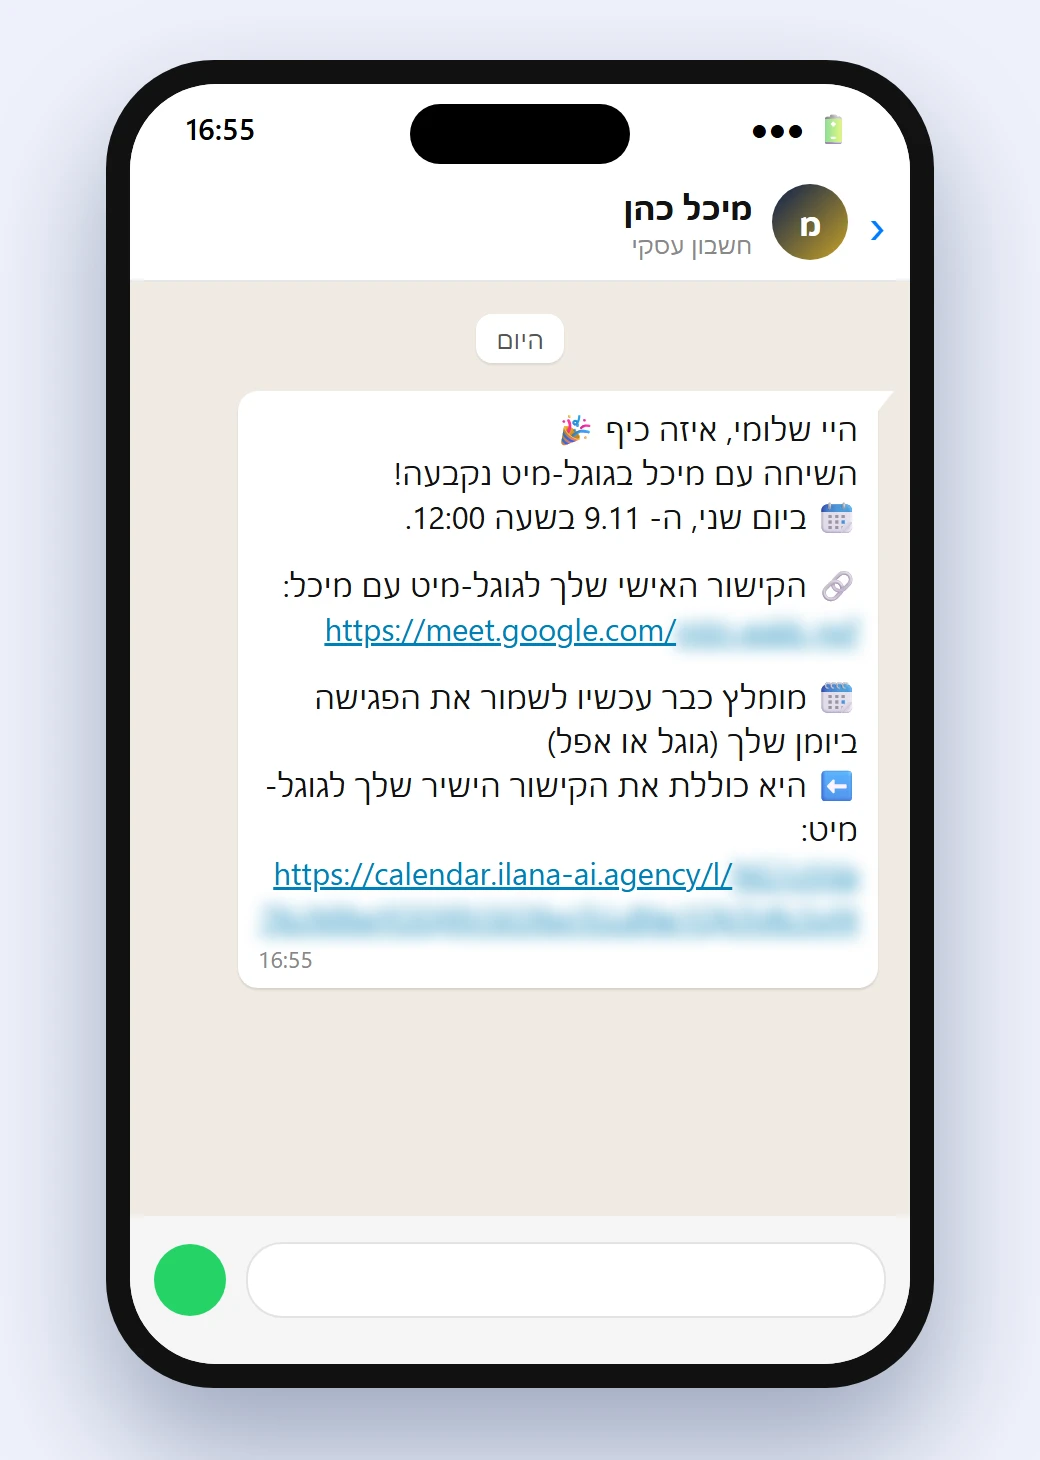
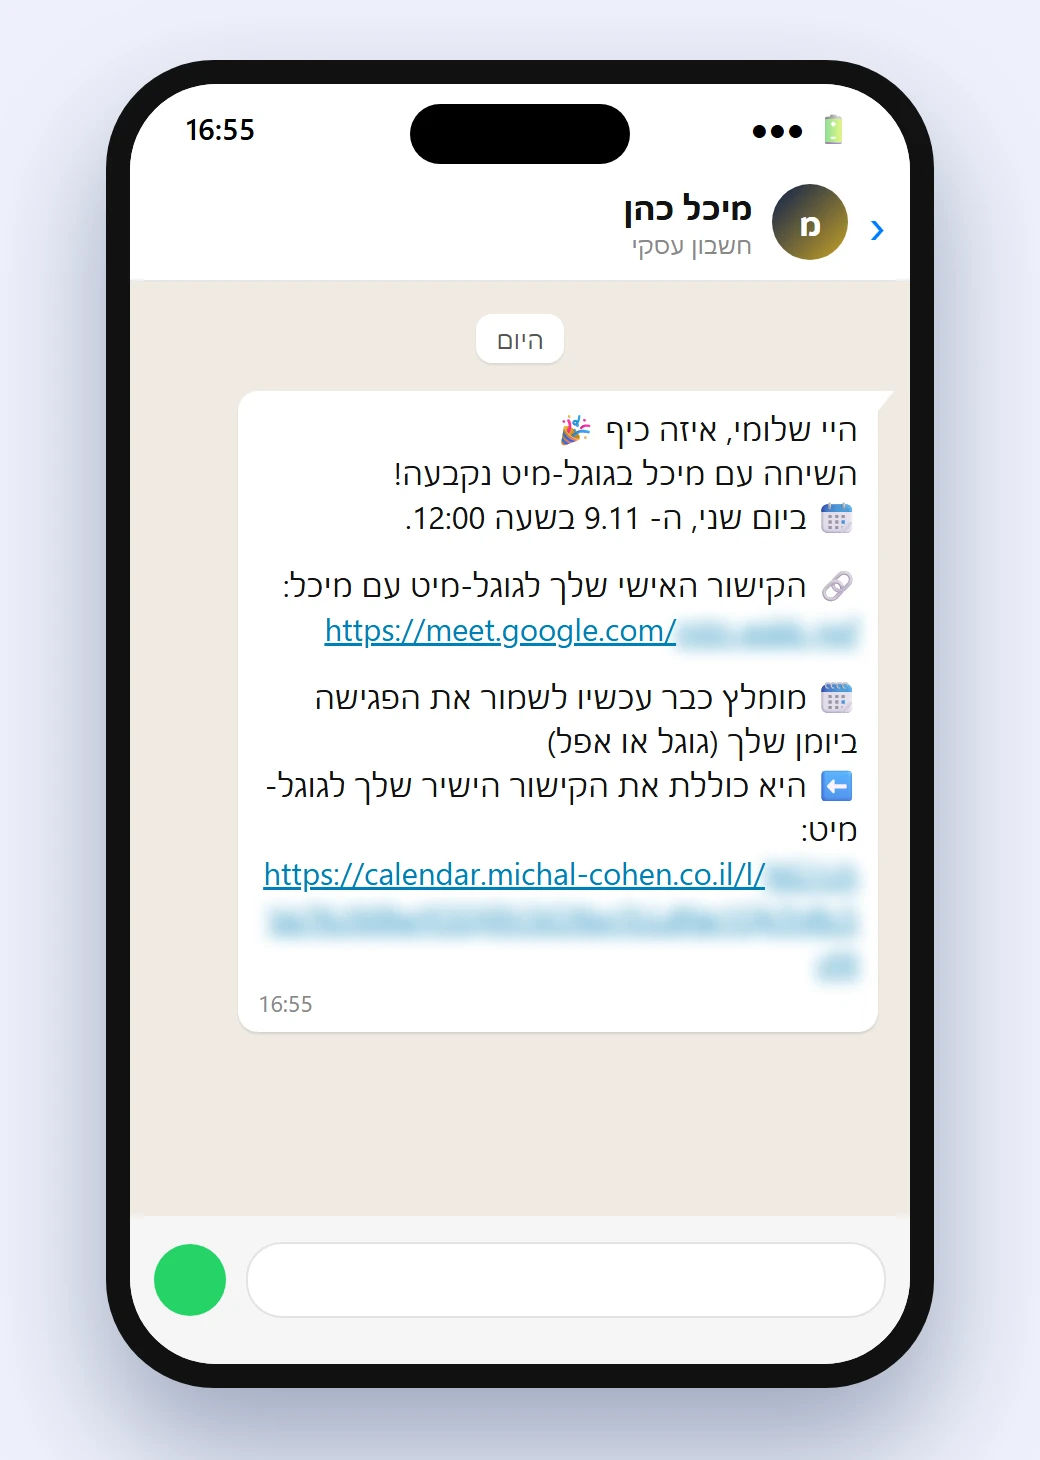
feat(crm): כותרת לאישור בוואטסאפ, תמונה קטנה יותר וכתובת יומן של מיכל

Changed region(s): [[0.2154, 0.6473, 0.8615, 0.7089], [0.2462, 0.5856, 0.7385, 0.6164]]

diff --git a/crm/index.html b/crm/index.html
@@ -17,7 +17,7 @@
   <link rel="preconnect" href="https://fonts.googleapis.com" />
   <link rel="preconnect" href="https://fonts.gstatic.com" crossorigin />
   <link href="https://fonts.googleapis.com/css2?family=Heebo:wght@400;500;700;800&display=swap" rel="stylesheet" />
-  <link rel="stylesheet" href="/assets/site.css?v=20261108l" />
+  <link rel="stylesheet" href="/assets/site.css?v=20261108m" />
 </head>
 <body>
 
@@ -239,7 +239,10 @@
           <figure><figcaption>העמוד של הפגישה, עם הקישור</figcaption><img src="/assets/img/crm/booked-meeting-page.webp" width="1525" height="775" loading="lazy" alt="עמוד הפגישה שנפתח לבד, עם קישור הגוגל-מיט מסומן בעיגול אדום" /></figure>
           <figure><figcaption>הפגישה בכרטיס הלקוח</figcaption><img src="/assets/img/crm/booked-in-card.webp" width="1525" height="775" loading="lazy" alt="כרטיס הלקוח עם הפגישה שנקבעה מסומנת בעיגול אדום" /></figure>
         </div>
-        <figure class="shot shot-narrow"><img src="/assets/img/crm/whatsapp-confirm-michal.webp" width="1040" height="1460" loading="lazy" alt="הודעת האישור שהלקוח מקבל בוואטסאפ, עם הקישור לגוגל-מיט" /></figure>
+        <div class="shot-head">
+          <h4 class="feat-sub">האישור לוואטסאפ ולמייל שמקבל הליד או הלקוח מיד לאחר קביעת הפגישה</h4>
+        </div>
+        <figure class="shot shot-confirm"><img src="/assets/img/crm/whatsapp-confirm-michal.webp?v=2" width="1040" height="1460" loading="lazy" alt="הודעת האישור שהלקוח מקבל בוואטסאפ, עם הקישור לגוגל-מיט" /></figure>
         <div>
           <p><span aria-hidden="true">🔔</span> יום לפני הפגישה הוא מקבל תזכורת.</p>
           <p><span class="strong">ויש גם שדרוג:</span> תהליך של כמה תזכורות, עד שהוא מאשר שהוא מגיע או מבקש לשנות מועד.</p>

diff --git a/dashboard/index.html b/dashboard/index.html
@@ -16,7 +16,7 @@
   <link rel="preconnect" href="https://fonts.googleapis.com" />
   <link rel="preconnect" href="https://fonts.gstatic.com" crossorigin />
   <link href="https://fonts.googleapis.com/css2?family=Heebo:wght@400;500;700;800&display=swap" rel="stylesheet" />
-  <link rel="stylesheet" href="/assets/site.css?v=20261108l" />
+  <link rel="stylesheet" href="/assets/site.css?v=20261108m" />
 
   <style>
     /* ====== ייחודי לעמוד הדשבורד ====== */

diff --git a/ai-agents/index.html b/ai-agents/index.html
@@ -17,7 +17,7 @@
   <link rel="preconnect" href="https://fonts.googleapis.com" />
   <link rel="preconnect" href="https://fonts.gstatic.com" crossorigin />
   <link href="https://fonts.googleapis.com/css2?family=Heebo:wght@400;500;700;800&display=swap" rel="stylesheet" />
-  <link rel="stylesheet" href="/assets/site.css?v=20261108l" />
+  <link rel="stylesheet" href="/assets/site.css?v=20261108m" />
 </head>
 <body>
 

diff --git a/anastasia/index.html b/anastasia/index.html
@@ -17,7 +17,7 @@
   <link rel="preconnect" href="https://fonts.googleapis.com" />
   <link rel="preconnect" href="https://fonts.gstatic.com" crossorigin />
   <link href="https://fonts.googleapis.com/css2?family=Heebo:wght@400;500;700;800&display=swap" rel="stylesheet" />
-  <link rel="stylesheet" href="/assets/site.css?v=20261108l" />
+  <link rel="stylesheet" href="/assets/site.css?v=20261108m" />
 </head>
 <body>
 

diff --git a/contact/index.html b/contact/index.html
@@ -17,7 +17,7 @@
   <link rel="preconnect" href="https://fonts.googleapis.com" />
   <link rel="preconnect" href="https://fonts.gstatic.com" crossorigin />
   <link href="https://fonts.googleapis.com/css2?family=Heebo:wght@400;500;700;800&display=swap" rel="stylesheet" />
-  <link rel="stylesheet" href="/assets/site.css?v=20261108l" />
+  <link rel="stylesheet" href="/assets/site.css?v=20261108m" />
 </head>
 <body>
 

diff --git a/index.html b/index.html
@@ -17,7 +17,7 @@
   <link rel="preconnect" href="https://fonts.googleapis.com" />
   <link rel="preconnect" href="https://fonts.gstatic.com" crossorigin />
   <link href="https://fonts.googleapis.com/css2?family=Heebo:wght@400;500;700;800&display=swap" rel="stylesheet" />
-  <link rel="stylesheet" href="/assets/site.css?v=20261108l" />
+  <link rel="stylesheet" href="/assets/site.css?v=20261108m" />
 </head>
 <body>
 

diff --git a/podcast/1/index.html b/podcast/1/index.html
@@ -16,7 +16,7 @@
   <link rel="preconnect" href="https://fonts.googleapis.com" />
   <link rel="preconnect" href="https://fonts.gstatic.com" crossorigin />
   <link href="https://fonts.googleapis.com/css2?family=Heebo:wght@400;500;700;800&display=swap" rel="stylesheet" />
-  <link rel="stylesheet" href="/assets/site.css?v=20261108l" />
+  <link rel="stylesheet" href="/assets/site.css?v=20261108m" />
 </head>
 <body>
 

diff --git a/podcast/_episode-template/index.html b/podcast/_episode-template/index.html
@@ -16,7 +16,7 @@
   <link rel="preconnect" href="https://fonts.googleapis.com" />
   <link rel="preconnect" href="https://fonts.gstatic.com" crossorigin />
   <link href="https://fonts.googleapis.com/css2?family=Heebo:wght@400;500;700;800&display=swap" rel="stylesheet" />
-  <link rel="stylesheet" href="/assets/site.css?v=20261108l" />
+  <link rel="stylesheet" href="/assets/site.css?v=20261108m" />
 </head>
 <body>
 

diff --git a/podcast/index.html b/podcast/index.html
@@ -16,7 +16,7 @@
   <link rel="preconnect" href="https://fonts.googleapis.com" />
   <link rel="preconnect" href="https://fonts.gstatic.com" crossorigin />
   <link href="https://fonts.googleapis.com/css2?family=Heebo:wght@400;500;700;800&display=swap" rel="stylesheet" />
-  <link rel="stylesheet" href="/assets/site.css?v=20261108l" />
+  <link rel="stylesheet" href="/assets/site.css?v=20261108m" />
 </head>
 <body>
 

diff --git a/terms/index.html b/terms/index.html
@@ -17,7 +17,7 @@
   <link rel="preconnect" href="https://fonts.googleapis.com" />
   <link rel="preconnect" href="https://fonts.gstatic.com" crossorigin />
   <link href="https://fonts.googleapis.com/css2?family=Heebo:wght@400;500;700;800&display=swap" rel="stylesheet" />
-  <link rel="stylesheet" href="/assets/site.css?v=20261108l" />
+  <link rel="stylesheet" href="/assets/site.css?v=20261108m" />
 </head>
 <body>
 

diff --git a/assets/site.css b/assets/site.css
@@ -1442,3 +1442,4 @@ main:has(.crm-hero) .about p:not(.about-hello) { font-size: clamp(17px, 1.75vw, 
 .shot-head .feat-sub { margin-bottom: 4px; }
 .feat > .shot-head p.shot-sub { font-size: clamp(15px, 1.4vw, 16px); color: var(--ink-warm); margin: 0; }
 .same-task figcaption { font-size: clamp(17px, 1.9vw, 21px); margin-bottom: 10px; }
+.shot-confirm { max-width: 470px; }
